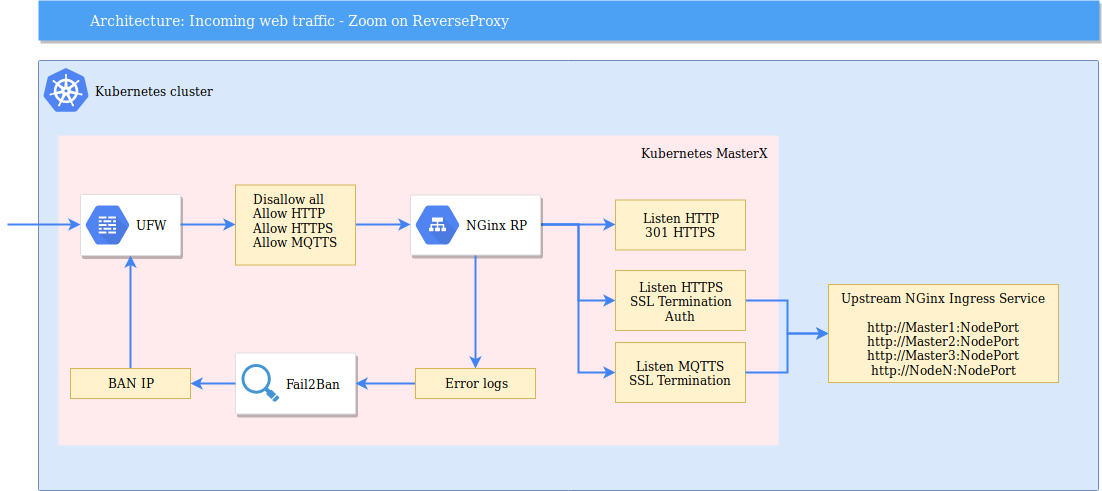
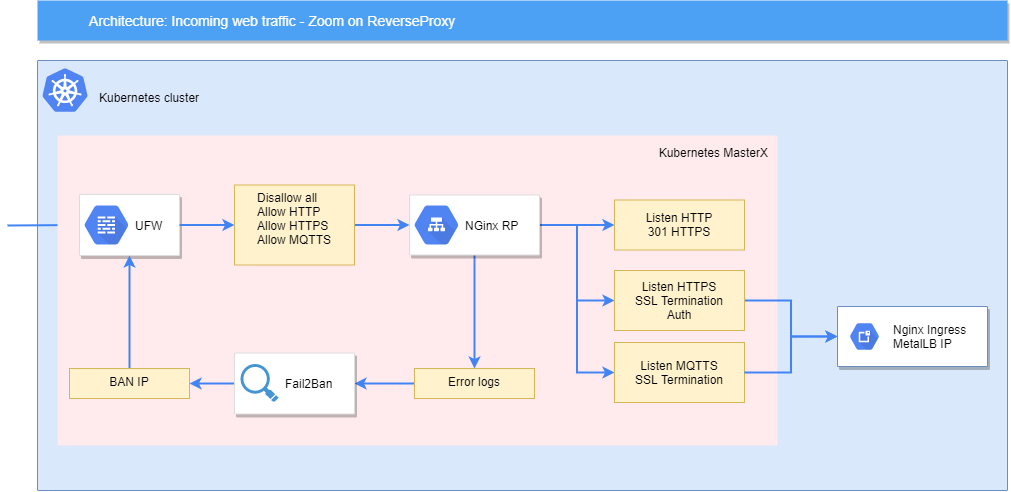
Update doc

diff --git a/docs/Bare_metal_considerations.md b/docs/Bare_metal_considerations.md
@@ -23,7 +23,7 @@ This NGinx RP is used for :
 
 It also provides error logs parsed by [Fail2Ban](https://www.fail2ban.org/wiki/index.php/Fail2Ban).
 
-The NGinx Ingress is exposed as a NodePort in Kubernetes and the RP merely forwards requests to this port.
+The NGinx Ingress is exposed on a dedicated IP provided by MetalLB and the RP merely forwards requests to this port.
 
 ![Architecture - Incoming web traffic - Zoom on ReverseProxy](diagrams/Architecture_Incoming_web_traffic_-_Zoom_on_ReverseProxy.png "Architecture - Incoming web traffic - Zoom on ReverseProxy")
 
